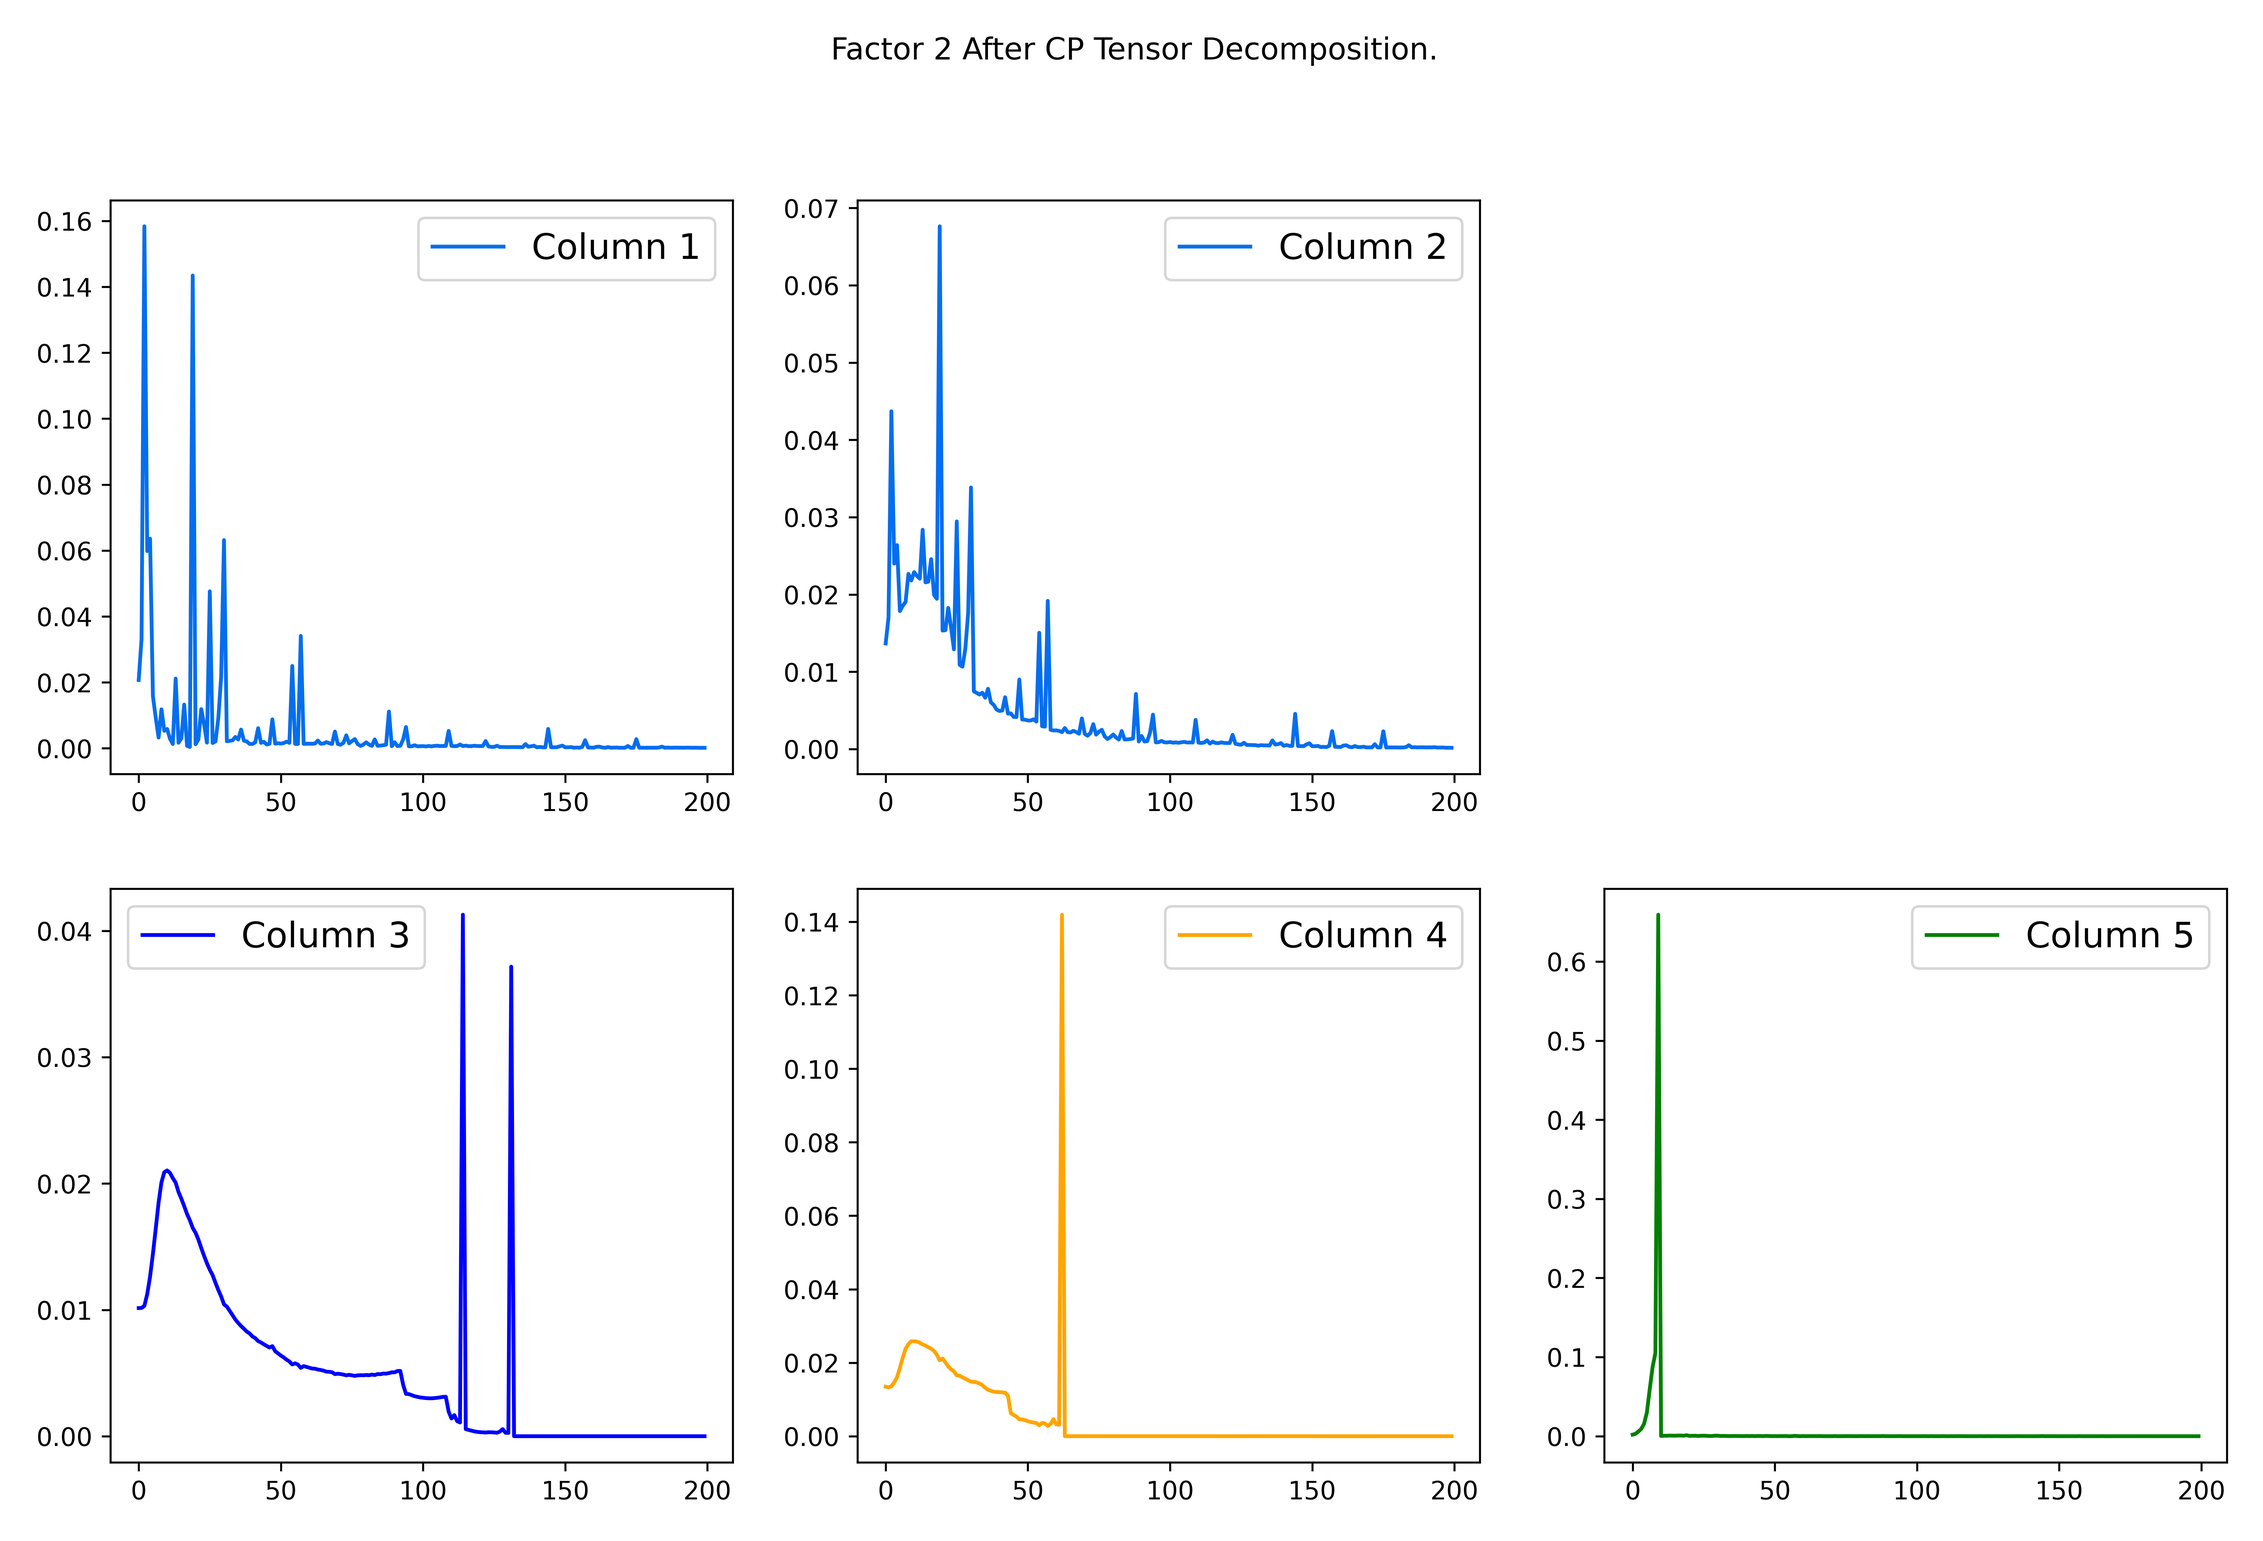
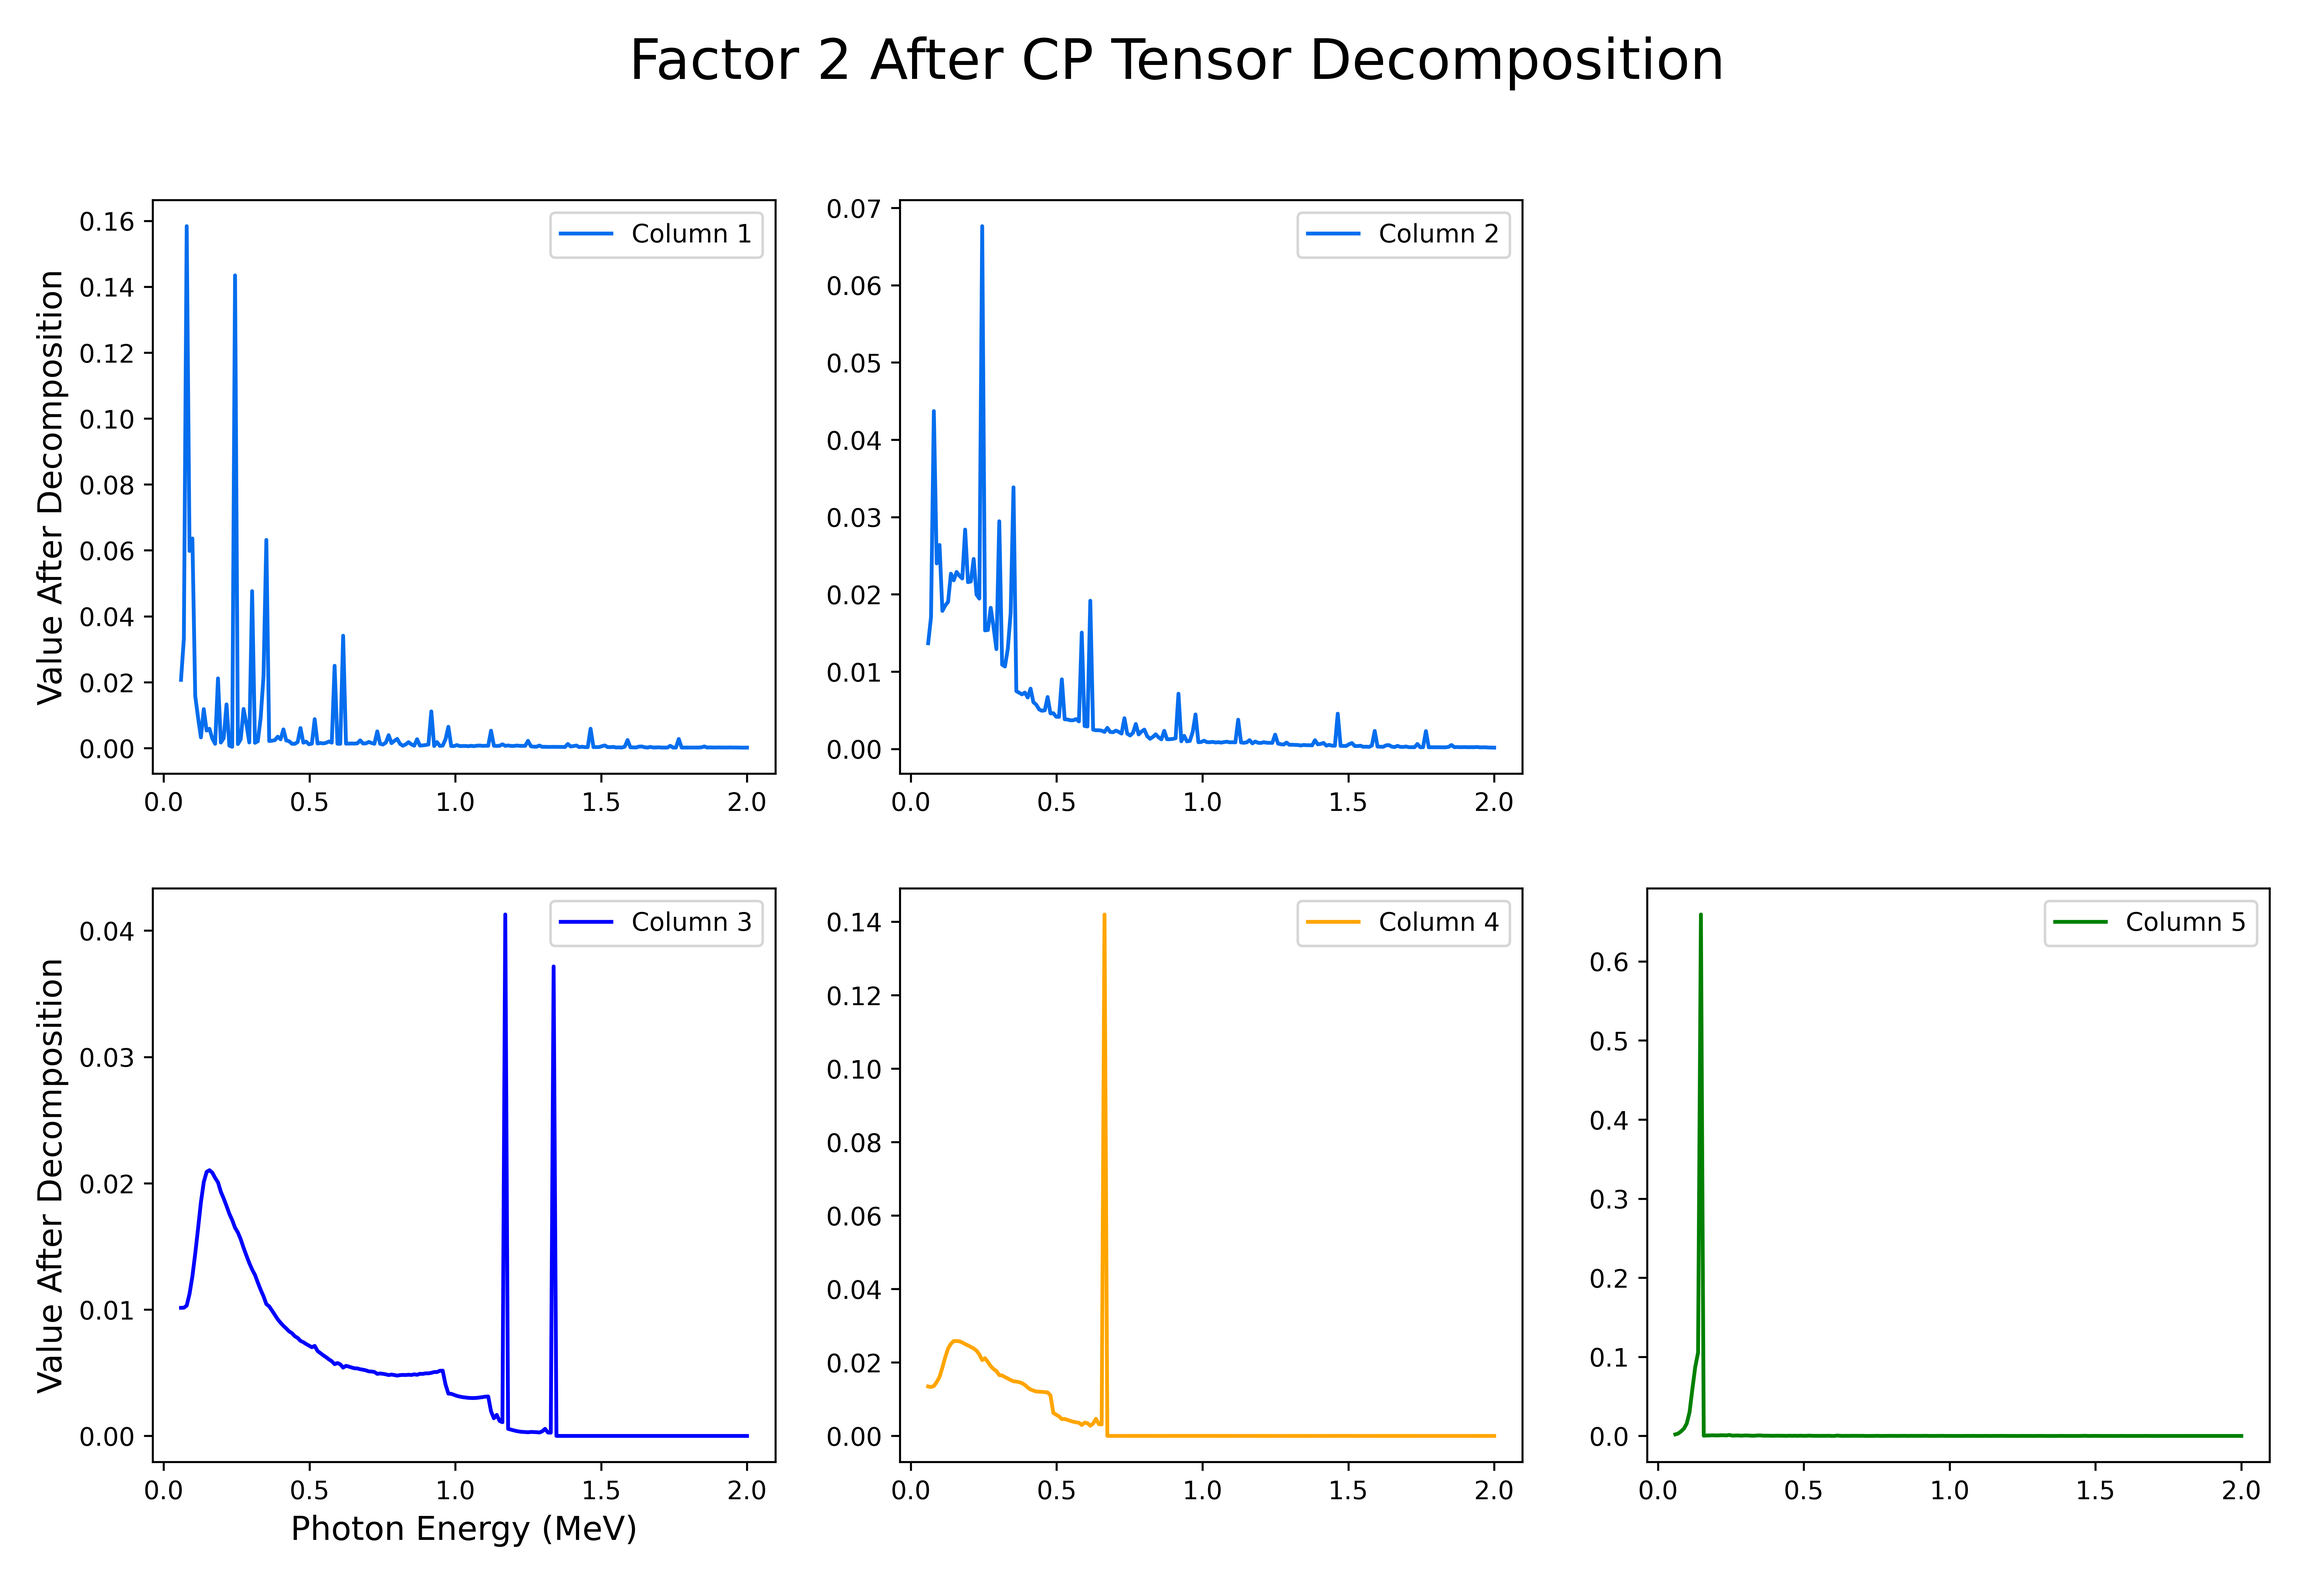
Pretty subplots for MATLAB CP decomposition

diff --git a/coolSubplotsAndNorms.py b/coolSubplotsAndNorms.py
@@ -133,14 +133,14 @@ plt.plot(HSpectraMatrixDataFrame.iloc[1, :], label=f'Row 2', color='xkcd:cerulea
 plt.legend()
 
 plt.subplot(2, 2, 3)
-plt.xlabel('Photon Energy (MeV)', fontsize=13)
+plt.xlabel('Sensor Number', fontsize=13)
 plt.ylabel('Value After Decomposition', fontsize=13)
 # plt.title('W Matrix Column 3', fontsize=15)
 plt.plot(HSpectraMatrixDataFrame.iloc[2, :], label=f'Row 3', color='xkcd:cerulean blue')
 plt.legend()
 
 plt.subplot(2, 2, 4)
-plt.xlabel('Photon Energy (MeV)', fontsize=13)
+# plt.xlabel('Sensor Number', fontsize=13)
 # plt.ylabel('Value After Decomposition', fontsize=13)
 # plt.title('W Matrix Column 4', fontsize=15)
 plt.plot(HSpectraMatrixDataFrame.iloc[3, :], label=f'Row 4', color='xkcd:cerulean blue')
@@ -221,80 +221,82 @@ matlab8factor1 = pd.read_csv('data files/factor1rank8Matlab.csv', header=None)
 matlab8factor2 = pd.read_csv('data files/factor2rank8Matlab.csv', header=None)
 matlab8factor3 = pd.read_csv('data files/factor3rank8Matlab.csv', header=None)
 
+matlab5factor2 = th.attachXAxis(matlab5factor2)
+
 # ------- Cool subplots of the MATLAB CPT -------
 
 plt.figure(figsize=(15, 9))
-plt.suptitle('Factor 2 After CP Tensor Decomposition.')
+plt.suptitle('Factor 2 After CP Tensor Decomposition', fontsize=22)
 
 plt.subplot(2, 3, 1)
 # plt.xlabel('Photon Energy (MeV)', fontsize=13)
-# plt.ylabel('Value After Decomposition', fontsize=13)
+plt.ylabel('Value After Decomposition', fontsize=13)
 plt.plot(matlab5factor2.iloc[:, 0], label=f'Column 1', color='xkcd:cerulean blue')
-plt.legend(fontsize=14)
+plt.legend(fontsize=10)
 
 plt.subplot(2, 3, 2)
 # plt.xlabel('Photon Energy (MeV)', fontsize=13)
 # plt.ylabel('Value After Decomposition', fontsize=13)
 plt.plot(matlab5factor2.iloc[:, 1], label=f'Column 2', color='xkcd:cerulean blue')
-plt.legend(fontsize=14)
+plt.legend(fontsize=10)
 
 plt.subplot(2, 3, 4)
-# plt.xlabel('Photon Energy (MeV)', fontsize=13)
-# plt.ylabel('Value After Decomposition', fontsize=13)
+plt.xlabel('Photon Energy (MeV)', fontsize=13)
+plt.ylabel('Value After Decomposition', fontsize=13)
 plt.plot(matlab5factor2.iloc[:, 2], label=f'Column 3', color='blue')
-plt.legend(fontsize=14)
+plt.legend(fontsize=10)
 
 plt.subplot(2, 3, 5)
 # plt.xlabel('Photon Energy (MeV)', fontsize=13)
 # plt.ylabel('Value After Decomposition', fontsize=13)
 plt.plot(matlab5factor2.iloc[:, 3], label=f'Column 4', color='orange')
-plt.legend(fontsize=14)
+plt.legend(fontsize=10)
 
 plt.subplot(2, 3, 6)
 # plt.xlabel('Photon Energy (MeV)', fontsize=13)
 # plt.ylabel('Value After Decomposition', fontsize=13)
 plt.plot(matlab5factor2.iloc[:, 4], label=f'Column 5', color='green')
-plt.legend(fontsize=14)
+plt.legend(fontsize=10)
 
-# th.saveThisGraph('images/subplots/factor2matlabrank5.png')
+th.saveThisGraph('images/subplots/factor2matlabrank5.png')
 plt.show()
 plt.close()
 
 
 plt.figure(figsize=(15, 9))
-plt.suptitle('Factor 3 After CP Tensor Decomposition.')
+plt.suptitle('Factor 3 After CP Tensor Decomposition', fontsize=22)
 
 plt.subplot(2, 3, 1)
 # plt.xlabel('Photon Energy (MeV)', fontsize=13)
-# plt.ylabel('Value After Decomposition', fontsize=13)
+plt.ylabel('Value After Decomposition', fontsize=13)
 plt.plot(matlab5factor3.iloc[:, 0], label=f'Column 1', color='xkcd:cerulean blue')
-plt.legend(fontsize=14)
+plt.legend(fontsize=10)
 
 plt.subplot(2, 3, 2)
 # plt.xlabel('Photon Energy (MeV)', fontsize=13)
 # plt.ylabel('Value After Decomposition', fontsize=13)
 plt.plot(matlab5factor3.iloc[:, 1], label=f'Column 2', color='xkcd:cerulean blue')
-plt.legend(fontsize=14)
+plt.legend(fontsize=10)
 
 plt.subplot(2, 3, 4)
-# plt.xlabel('Photon Energy (MeV)', fontsize=13)
-# plt.ylabel('Value After Decomposition', fontsize=13)
+plt.xlabel('Sensor Number', fontsize=13)
+plt.ylabel('Value After Decomposition', fontsize=13)
 plt.plot(matlab5factor3.iloc[:, 2], label=f'Column 3', color='blue')
-plt.legend(fontsize=14)
+plt.legend(fontsize=10)
 
 plt.subplot(2, 3, 5)
 # plt.xlabel('Photon Energy (MeV)', fontsize=13)
 # plt.ylabel('Value After Decomposition', fontsize=13)
 plt.plot(matlab5factor3.iloc[:, 3], label=f'Column 4', color='orange')
-plt.legend(fontsize=14)
+plt.legend(fontsize=10)
 
 plt.subplot(2, 3, 6)
 # plt.xlabel('Photon Energy (MeV)', fontsize=13)
 # plt.ylabel('Value After Decomposition', fontsize=13)
 plt.plot(matlab5factor3.iloc[:, 4], label=f'Column 5', color='green')
-plt.legend(fontsize=14)
+plt.legend(fontsize=10)
 
-# th.saveThisGraph('images/subplots/factor3matlabrank5.png')
+th.saveThisGraph('images/subplots/factor3matlabrank5.png')
 plt.show()
 plt.close()
 
